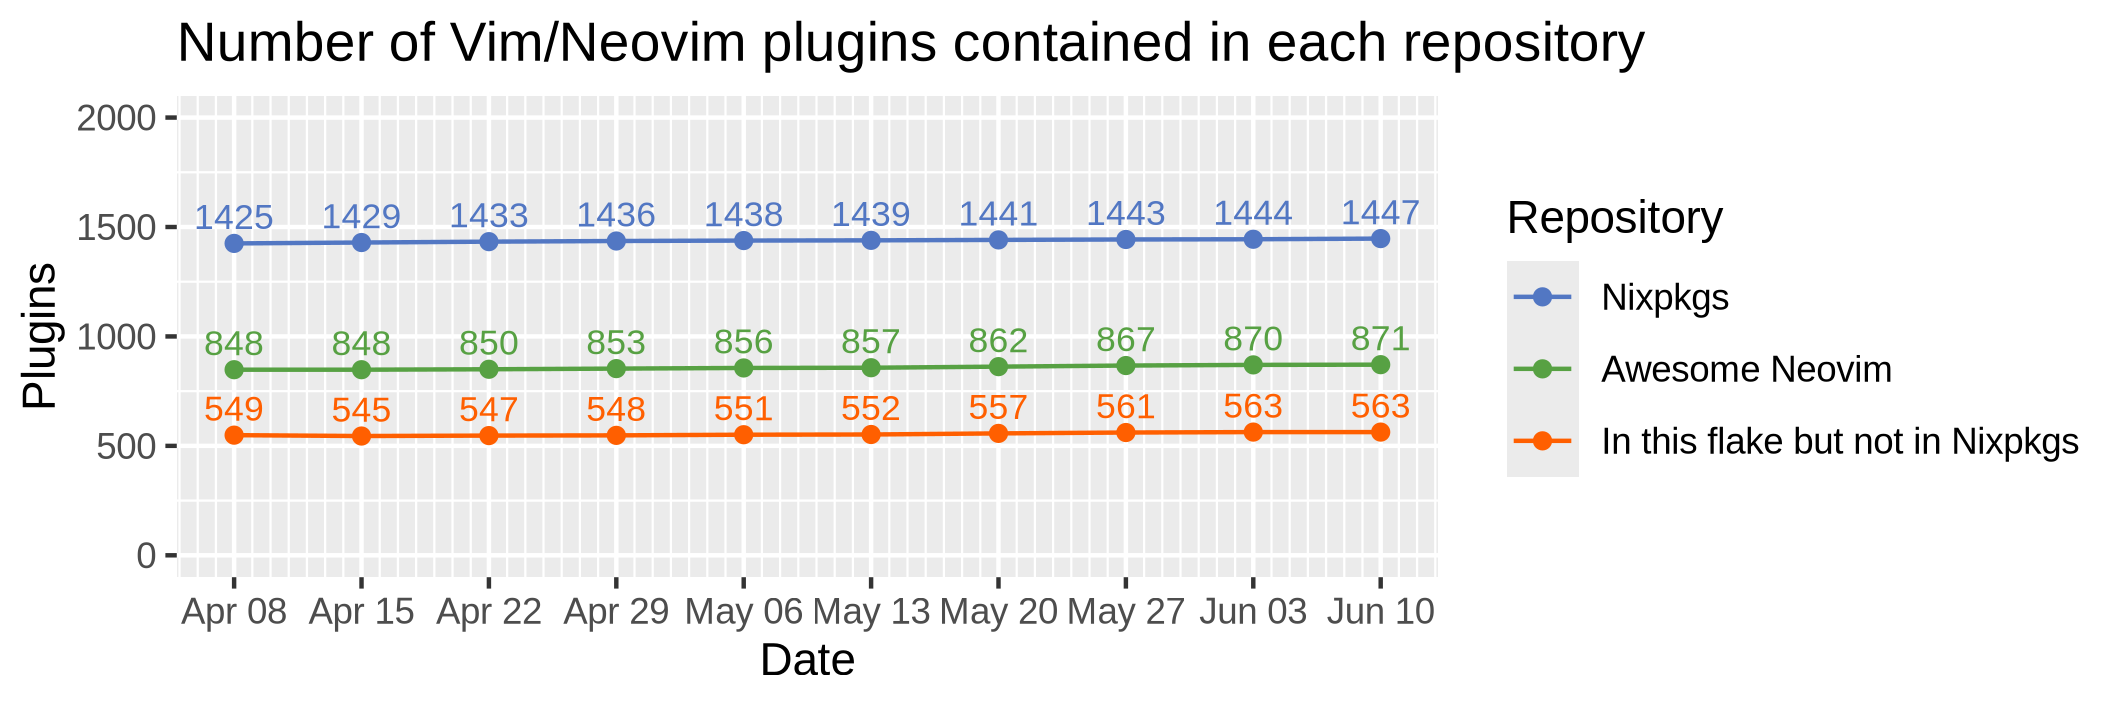
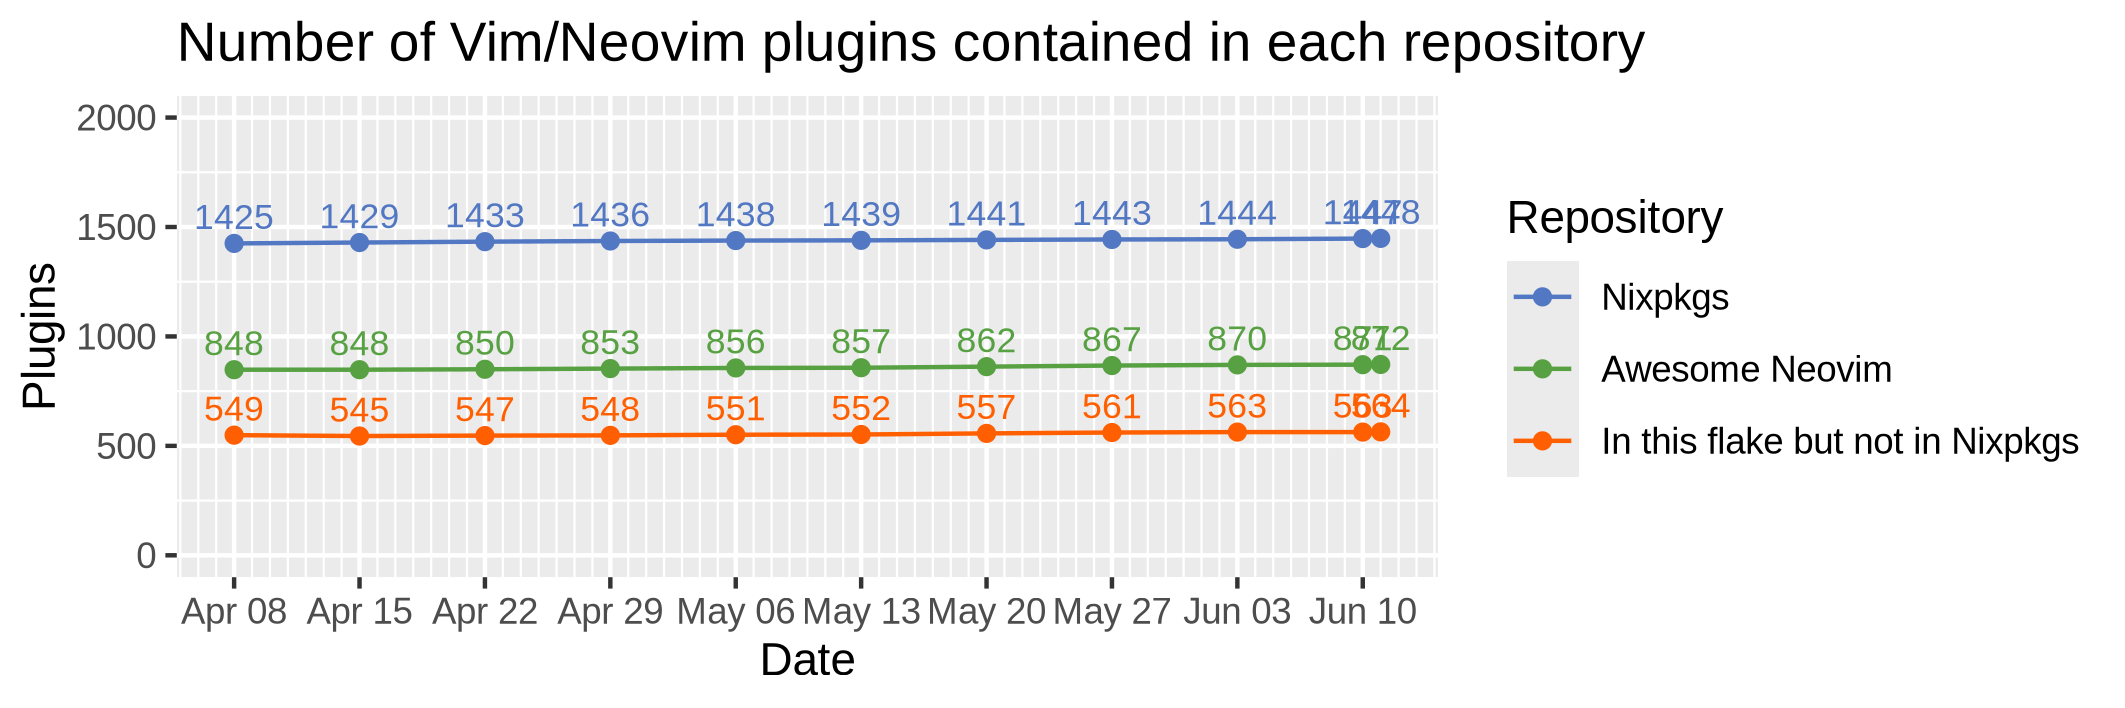
auto: update vim plugins

diff --git a/README.md b/README.md
@@ -8,7 +8,7 @@ Nix flake of Awesome Neovim plugins.
 
 [b1]: https://img.shields.io/github/actions/workflow/status/m15a/flake-awesome-neovim-plugins/check.yml?style=flat-square&logo=github&label=CI
 [b2]: https://github.com/m15a/flake-awesome-neovim-plugins/actions/workflows/check.yml
-[b3]: https://img.shields.io/badge/Awesome_Neovim_plugins-871-57A143?style=flat-square
+[b3]: https://img.shields.io/badge/Awesome_Neovim_plugins-872-57A143?style=flat-square
 [b4]: https://img.shields.io/endpoint?url=https://flakehub.com/f/m15a/flake-awesome-neovim-plugins/badge&style=flat-square
 [b5]: https://flakehub.com/flake/m15a/flake-awesome-neovim-plugins
 
